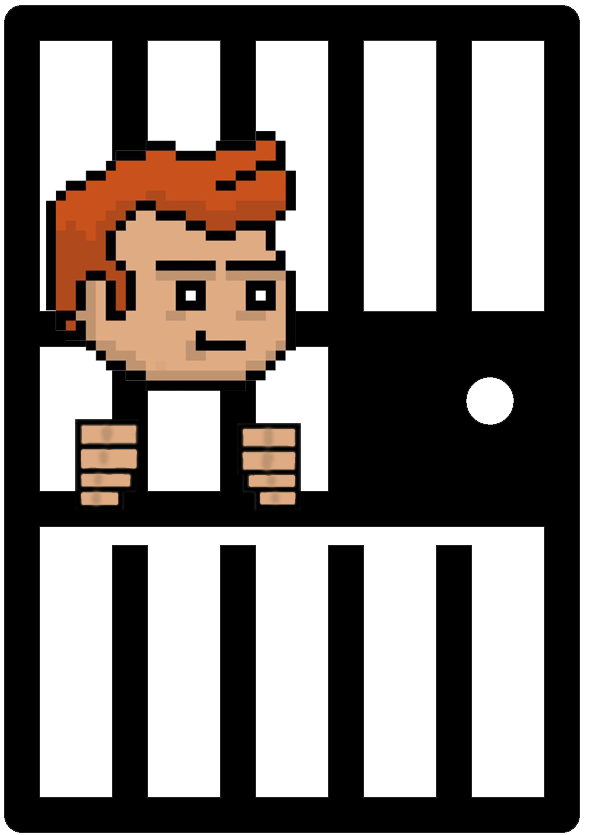
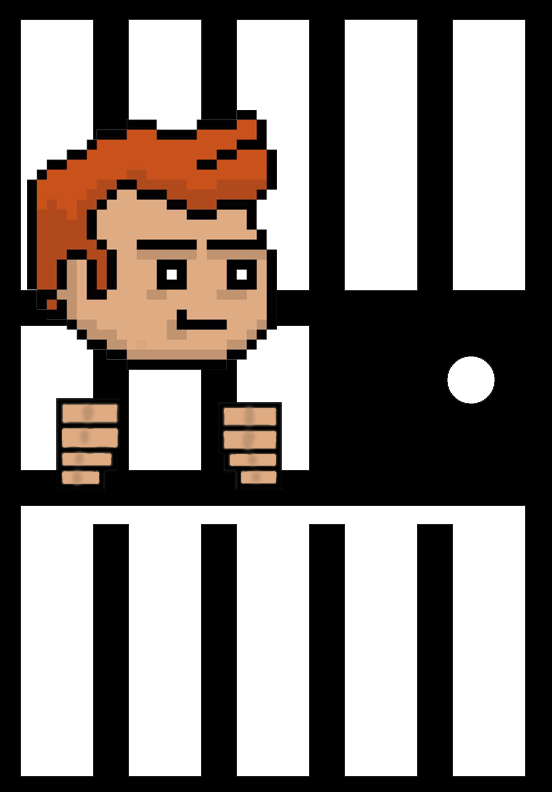
Menu window now including jail gate and message of the day is implemented

Changed region(s): [[0.0, 0.0, 1.0, 1.0], [0.7699, 0.4545, 0.8931, 0.5152], [0.8315, 0.4242, 0.8623, 0.4545]]

diff --git a/src/main/java/com/group38/prisonbreak/controllers/MenuController.java b/src/main/java/com/group38/prisonbreak/controllers/MenuController.java
@@ -1,10 +1,24 @@
 package com.group38.prisonbreak.controllers;
 
+import com.group38.prisonbreak.GameManager;
+import com.group38.prisonbreak.MOTD;
 import com.group38.prisonbreak.utilities.FileUtilities;
+import javafx.animation.Animation;
+import javafx.animation.KeyFrame;
+import javafx.animation.Timeline;
 import javafx.beans.value.ChangeListener;
+import javafx.event.EventType;
 import javafx.fxml.FXML;
+import javafx.scene.control.TextArea;
+import javafx.scene.control.TextField;
+import javafx.scene.image.Image;
 import javafx.scene.image.ImageView;
 import javafx.scene.input.MouseEvent;
+import javafx.scene.text.Text;
+import javafx.util.Duration;
+
+import java.io.IOException;
+import java.util.Scanner;
 
 /**
  * MenuController handles the...[add]
@@ -22,6 +36,21 @@ public class MenuController {
     @FXML
     private ImageView exitImage;
 
+    @FXML
+    private ImageView gateImage;
+
+    @FXML
+    private ImageView motdSpeechBubble;
+
+    @FXML
+    private Text motdTitle;
+
+    @FXML
+    private Text motdTextBox;
+
+    public static Timeline motdTimeline;
+    private static String message;
+
     /**
      * [add]
      */
@@ -30,6 +59,9 @@ public class MenuController {
         newGameImage.hoverProperty().addListener(createHoverListener(newGameImage));
         loadGameImage.hoverProperty().addListener(createHoverListener(loadGameImage));
         exitImage.hoverProperty().addListener(createHoverListener(exitImage));
+        gateImage.hoverProperty().addListener(startMOTDListener(gateImage));
+
+
     }
 
     @FXML
@@ -41,12 +73,46 @@ public class MenuController {
     private void loadGameClicked(MouseEvent actionEvent){
         FileUtilities.getGameInstance().setRoot("load");
     }
+
     @FXML
     private void exitLevel(MouseEvent actionEvent) {
         actionEvent.consume();
         System.exit(0);
     }
 
+    /**
+     * Sets all the cycles for the tick timelines
+     */
+    public void initTimelines() {
+        motdTimeline.setCycleCount(Animation.INDEFINITE);
+        playTimeLines();
+        motdTimeline = new Timeline(new KeyFrame(Duration.millis(10), event -> printMOTD()));
+    }
+
+    /**
+     * starts and plays the timelines
+     */
+    public static void playTimeLines(){
+        motdTimeline.play();
+    }
+
+    @FXML
+    private void printMOTD(){
+        MOTD motd = new MOTD();
+        try {
+            message = motd.getMessageOfTheDay();
+            motdTextBox.setText(message);
+            //initTimelines();
+            Scanner scan = new Scanner(message);
+            for(int i = 0; i <message.length(); i++){
+
+            }
+        } catch (IOException e) {
+            throw new RuntimeException(e);
+        } catch (InterruptedException e) { //This was suggested by intellj ???
+            throw new RuntimeException(e);
+        }
+    }
     /**
      * [add]
      * @param img
@@ -61,4 +127,8 @@ public class MenuController {
             }
         };
     }
-}
+    private ChangeListener<Boolean> startMOTDListener(ImageView img) {
+        return (observable, oldValue, newValue) -> printMOTD();
+        };
+    }
+
